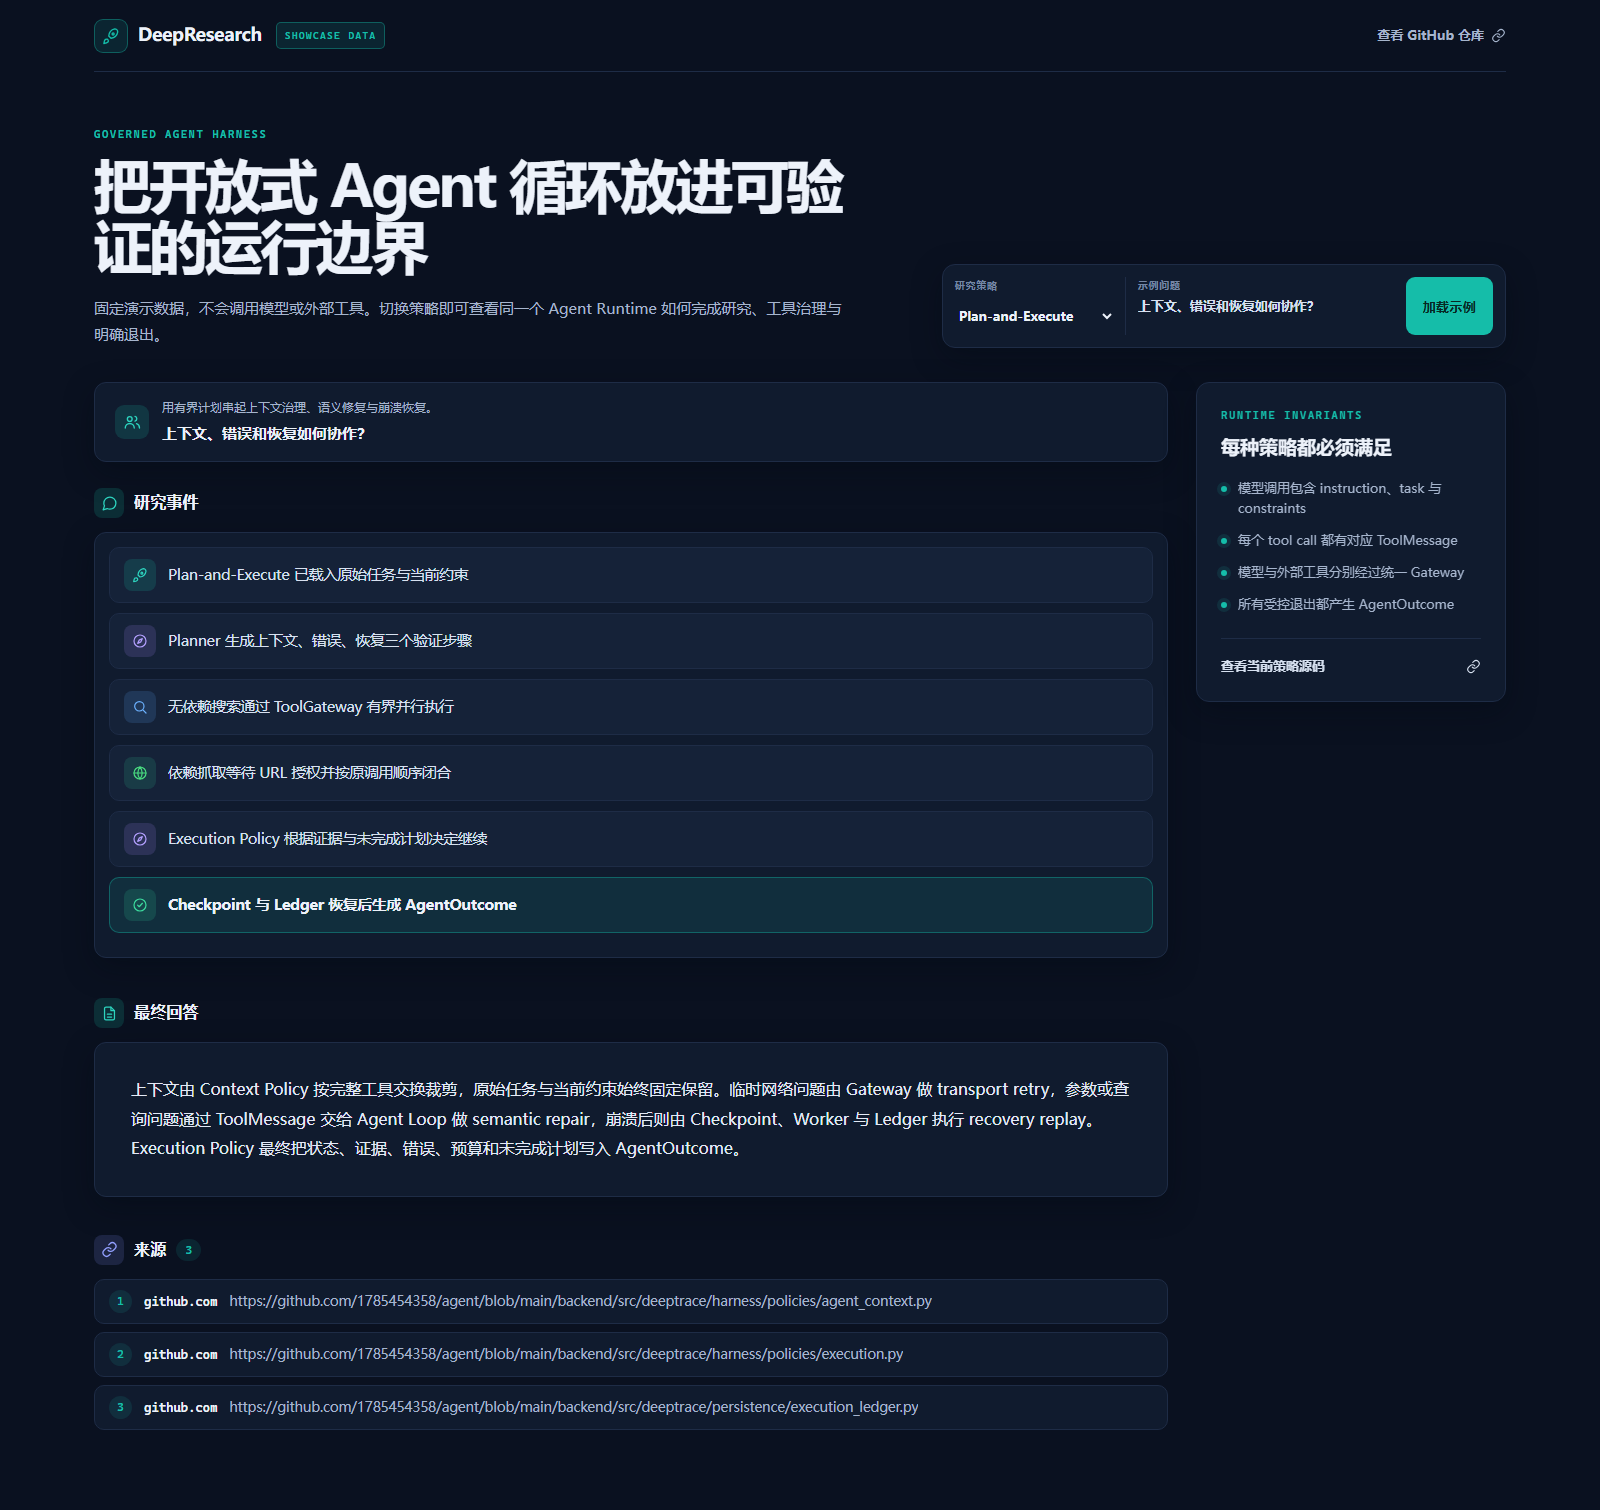
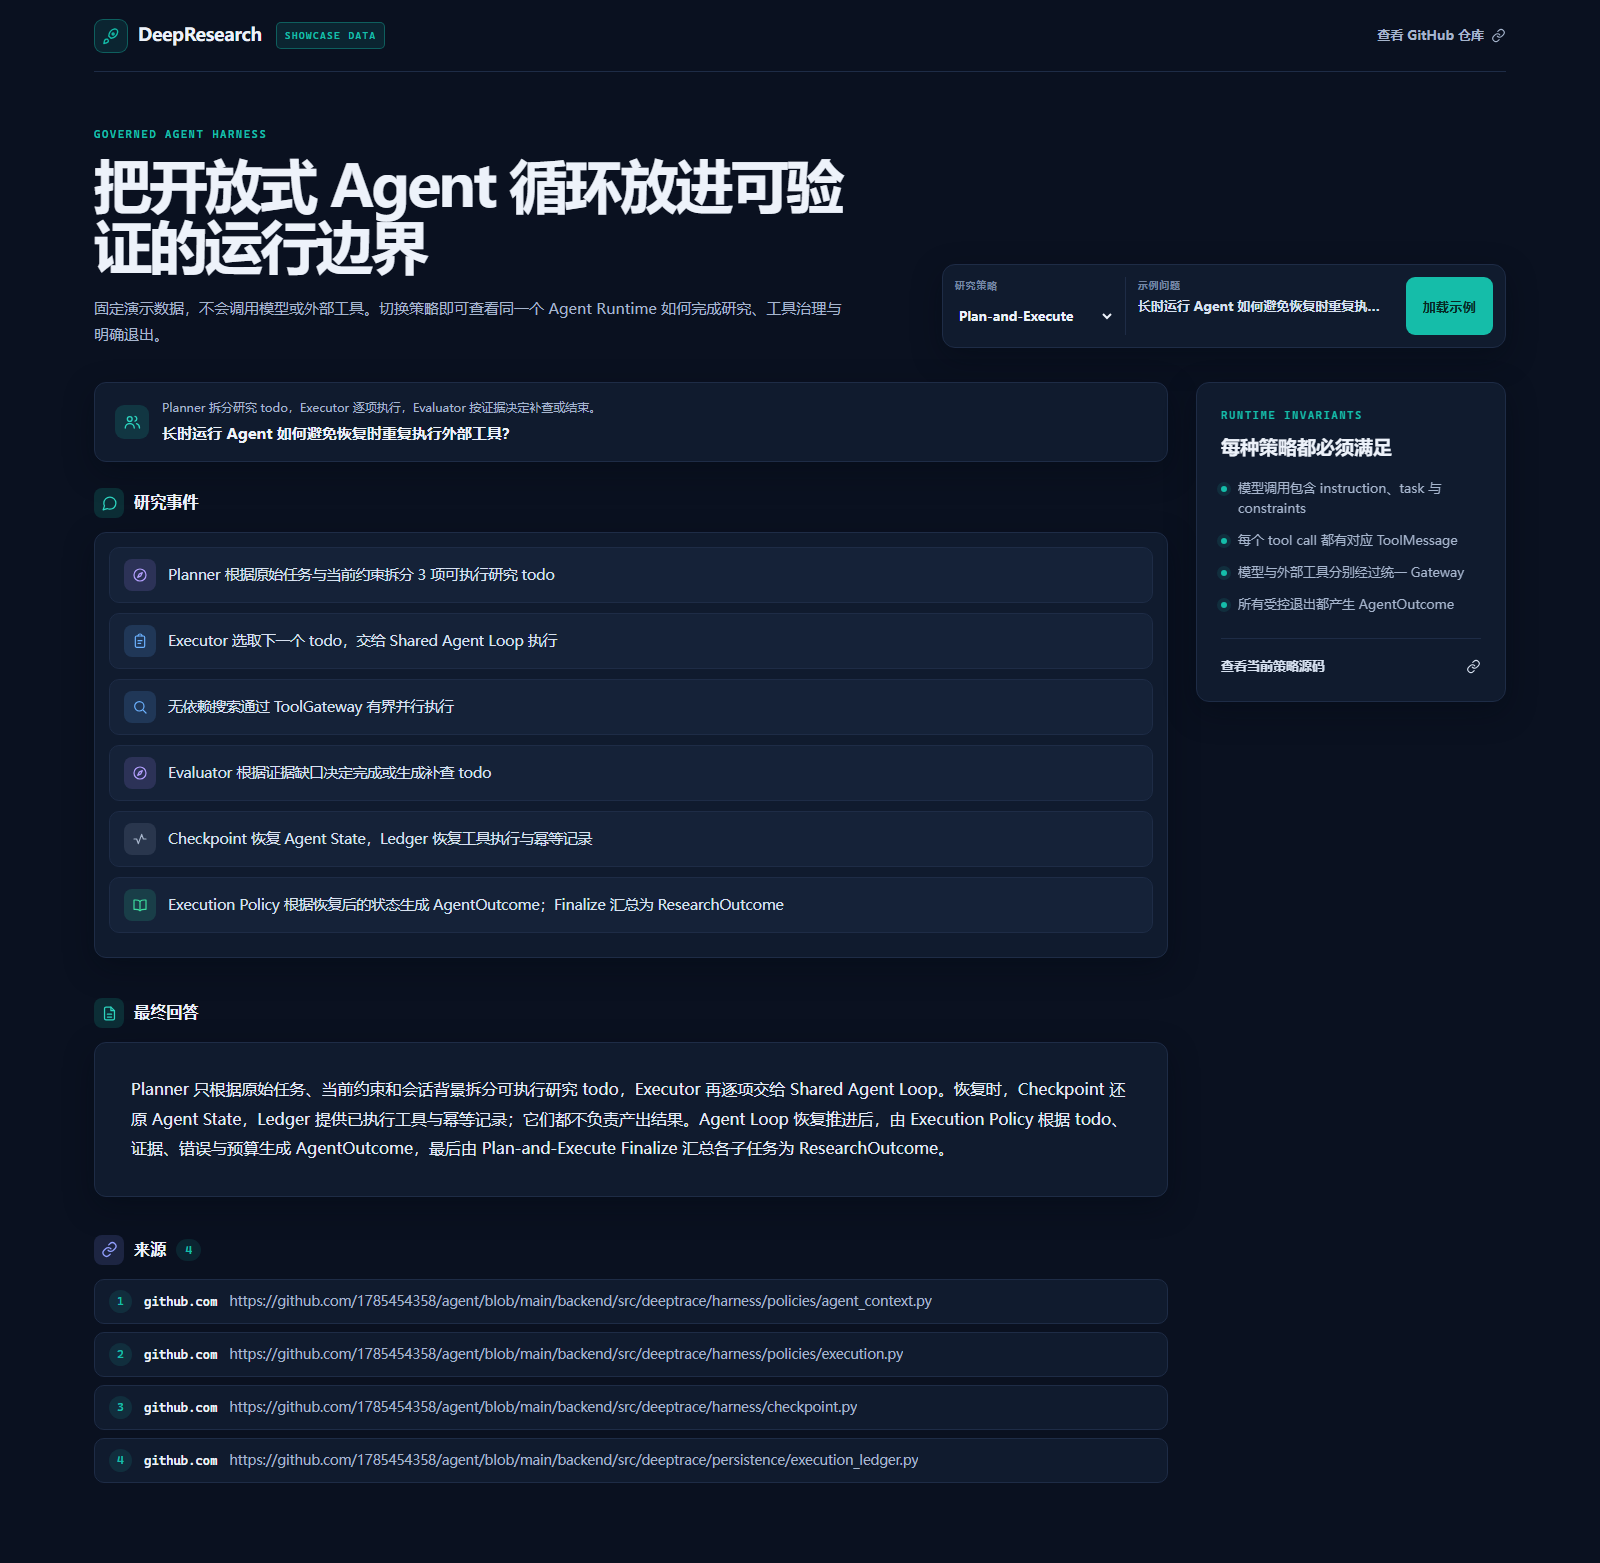
fix: align showcase trace with runtime ownership

diff --git a/frontend/src/showcase/fixtures.ts b/frontend/src/showcase/fixtures.ts
@@ -56,18 +56,18 @@ export const SHOWCASE_SCENARIOS: Record<ResearchMode, ShowcaseScenario> = {
   },
   plan_execute: {
     mode: "plan_execute",
-    question: "上下文、错误和恢复如何协作？",
-    summary: "用有界计划串起上下文治理、语义修复与崩溃恢复。",
+    question: "长时运行 Agent 如何避免恢复时重复执行外部工具？",
+    summary: "Planner 拆分研究 todo，Executor 逐项执行，Evaluator 按证据决定补查或结束。",
     events: [
       {
         id: 1,
-        event_type: "run.started",
-        message: "Plan-and-Execute 已载入原始任务与当前约束",
+        event_type: "planning.completed",
+        message: "Planner 根据原始任务与当前约束拆分 3 项可执行研究 todo",
       },
       {
         id: 2,
-        event_type: "planning.completed",
-        message: "Planner 生成上下文、错误、恢复三个验证步骤",
+        event_type: "task.started",
+        message: "Executor 选取下一个 todo，交给 Shared Agent Loop 执行",
       },
       {
         id: 3,
@@ -77,26 +77,27 @@ export const SHOWCASE_SCENARIOS: Record<ResearchMode, ShowcaseScenario> = {
       },
       {
         id: 4,
-        event_type: "tool.completed",
-        tool: "fetch_page",
-        message: "依赖抓取等待 URL 授权并按原调用顺序闭合",
+        event_type: "replanning.completed",
+        message: "Evaluator 根据证据缺口决定完成或生成补查 todo",
       },
       {
         id: 5,
-        event_type: "replanning.completed",
-        message: "Execution Policy 根据证据与未完成计划决定继续",
+        event_type: "run.recovered",
+        message: "Checkpoint 恢复 Agent State，Ledger 恢复工具执行与幂等记录",
       },
       {
         id: 6,
-        event_type: "run.completed",
-        message: "Checkpoint 与 Ledger 恢复后生成 AgentOutcome",
+        event_type: "research.completed",
+        message:
+          "Execution Policy 根据恢复后的状态生成 AgentOutcome；Finalize 汇总为 ResearchOutcome",
       },
     ],
     answer:
-      "上下文由 Context Policy 按完整工具交换裁剪，原始任务与当前约束始终固定保留。临时网络问题由 Gateway 做 transport retry，参数或查询问题通过 ToolMessage 交给 Agent Loop 做 semantic repair，崩溃后则由 Checkpoint、Worker 与 Ledger 执行 recovery replay。Execution Policy 最终把状态、证据、错误、预算和未完成计划写入 AgentOutcome。",
+      "Planner 只根据原始任务、当前约束和会话背景拆分可执行研究 todo，Executor 再逐项交给 Shared Agent Loop。恢复时，Checkpoint 还原 Agent State，Ledger 提供已执行工具与幂等记录；它们都不负责产出结果。Agent Loop 恢复推进后，由 Execution Policy 根据 todo、证据、错误与预算生成 AgentOutcome，最后由 Plan-and-Execute Finalize 汇总各子任务为 ResearchOutcome。",
     sources: [
       `${REPOSITORY}/blob/main/backend/src/deeptrace/harness/policies/agent_context.py`,
       `${REPOSITORY}/blob/main/backend/src/deeptrace/harness/policies/execution.py`,
+      `${REPOSITORY}/blob/main/backend/src/deeptrace/harness/checkpoint.py`,
       `${REPOSITORY}/blob/main/backend/src/deeptrace/persistence/execution_ledger.py`,
     ],
     sourceCodeUrl: `${REPOSITORY}/blob/main/backend/src/deeptrace/strategies/plan_execute`,

diff --git a/frontend/src/showcase/ShowcaseApp.test.tsx b/frontend/src/showcase/ShowcaseApp.test.tsx
@@ -1,6 +1,7 @@
 import { afterEach, describe, expect, it, vi } from "vitest";
 import { fireEvent, render, screen, within } from "@testing-library/react";
 import { ShowcaseApp } from "./ShowcaseApp";
+import { SHOWCASE_SCENARIOS } from "./fixtures";
 
 afterEach(() => {
   vi.restoreAllMocks();
@@ -19,7 +20,7 @@ describe("ShowcaseApp", () => {
 
     expect(
       within(screen.getByRole("main")).getByText(
-        "上下文、错误和恢复如何协作？",
+        "长时运行 Agent 如何避免恢复时重复执行外部工具？",
       ),
     ).toBeInTheDocument();
     expect(
@@ -67,5 +68,24 @@ describe("ShowcaseApp", () => {
     expect(
       screen.getByText(/固定演示数据，不会调用模型或外部工具/),
     ).toBeInTheDocument();
+  });
+
+  it("assigns planning, recovery, and outcome responsibilities accurately", () => {
+    const messages = SHOWCASE_SCENARIOS.plan_execute.events.map(
+      (event) => event.message,
+    );
+    const trace = messages.join("\n");
+
+    expect(trace).toContain(
+      "Planner 根据原始任务与当前约束拆分 3 项可执行研究 todo",
+    );
+    expect(trace).toContain(
+      "Checkpoint 恢复 Agent State，Ledger 恢复工具执行与幂等记录",
+    );
+    expect(trace).toContain(
+      "Execution Policy 根据恢复后的状态生成 AgentOutcome",
+    );
+    expect(trace).not.toMatch(/Planner 生成上下文、错误、恢复三个验证步骤/);
+    expect(trace).not.toMatch(/Checkpoint 与 Ledger.*生成 AgentOutcome/);
   });
 });

diff --git a/README.md b/README.md
@@ -94,7 +94,7 @@ npm run build
 npm run build:showcase
 ```
 
-展示包当前验证基线（2026-09-18）：后端 `464 passed, 1 deselected`，前端 `25 passed`，Production 与 Showcase 两种构建均通过。
+展示包当前验证基线（2026-09-18）：后端 `464 passed, 1 deselected`，前端 `26 passed`，Production 与 Showcase 两种构建均通过。
 
 真实 Provider 与搜索服务测试需要有效凭据，因此与确定性测试分开执行。当前测试覆盖三种策略、Gateway 边界、上下文不变量、ToolMessage 配对、AgentOutcome、Checkpoint 恢复、记忆、预算、引用和分布式租约。
 
